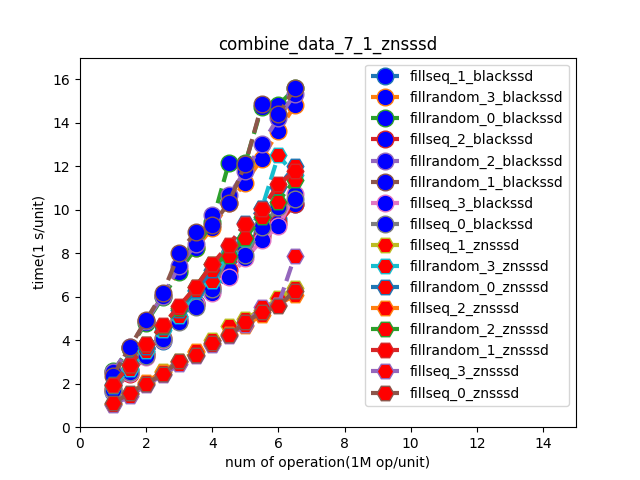
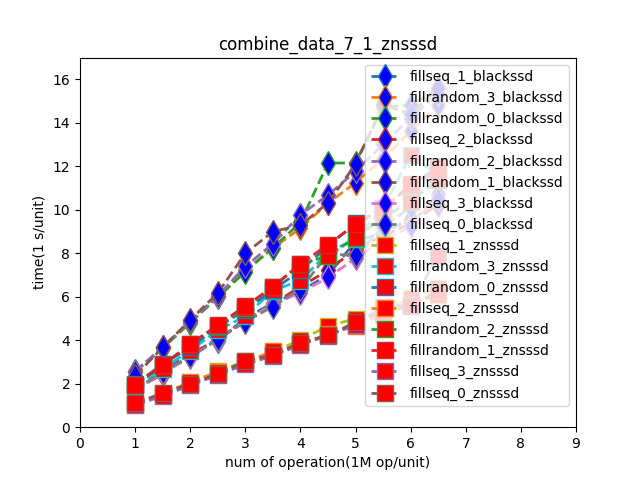
append WAL

diff --git a/drawDiff.py b/drawDiff.py
@@ -160,7 +160,7 @@ if __name__ == '__main__':
             ybar = [ele for _,ele in sorted(zip(x,y))]
             xbar = sorted(x)
             if dirName.split('_')[-1] == 'blackssd':
-                plt.plot(xbar, ybar, linestyle='dashed', linewidth=3, marker='o', markerfacecolor='blue', markersize=12, label=str(key))
+                plt.plot(xbar, ybar, linestyle='dashed', linewidth=2, marker='d', markerfacecolor='blue', markersize=12, label=str(key))
                 differ[str(key)] = [ybar, xbar]
             else:
                 ks = [str(ele) for ele in key.split('_')[:-1]]
@@ -170,12 +170,12 @@ if __name__ == '__main__':
                         difKey = ele
                     else: difKey= difKey + '_' + ele
                 difKey = difKey + '_' + 'znsssd'
-                plt.plot(xbar, ybar, linestyle='dashed', linewidth=3, marker='H', markerfacecolor='red', markersize=12, label=str(difKey))
+                plt.plot(xbar, ybar, linestyle='dashed', linewidth=2, marker='s', markerfacecolor='red', markersize=12, label=str(difKey))
                 differ[difKey] = [ybar, xbar]
             
     genFigName = 'combine_' + str(dirName)
     plt.title(genFigName)
-    plt.axis([0,15,0,17])
+    plt.axis([0,9,0,17])
     plt.legend()
     plt.xlabel('num of operation(1M op/unit)')
     plt.ylabel('time(1 s/unit)')
